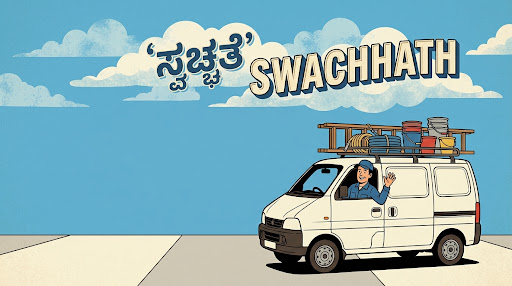
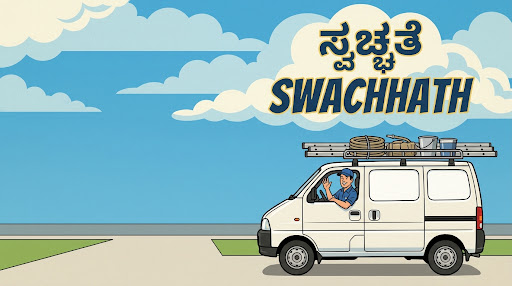
feat: replace desktop background with 4K high-res tuned Eeco van illustration

diff --git a/src/components/Hero.tsx b/src/components/Hero.tsx
@@ -1,6 +1,3 @@
-"use client";
-
-import { useState } from "react";
 import { Star, ShieldCheck, Leaf, Phone, Droplets, MapPin } from "lucide-react";
 
 export default function Hero() {
@@ -11,22 +8,8 @@ export default function Hero() {
   const whatsappLink = `https://wa.me/${whatsappNumber}?text=${whatsappMessage}`;
   const phoneCallLink = `tel:${whatsappNumber}`;
 
-  // Controller states for desktop tuning (Temporary)
-  const [bgSizePercent, setBgSizePercent] = useState(100); // Zoom level in %
-  const [bgPosX, setBgPosX] = useState(100); // Horizontal offset (100% is right side)
-  const [bgPosY, setBgPosY] = useState(100); // Vertical offset (100% is bottom side)
-  const [paddingY, setPaddingY] = useState(96); // Vertical padding of content in px
-  const [minHeight, setMinHeight] = useState(70); // Min height of section in vh
-
   return (
-    <section 
-      className="relative overflow-hidden flex items-center bg-[url('/images/hero-cartoon-mobile.png')] md:bg-[url('/images/hero-cartoon-desktop.png')] bg-no-repeat"
-      style={{
-        minHeight: `${minHeight}vh`,
-        backgroundSize: `${bgSizePercent}%`,
-        backgroundPosition: `${bgPosX}% ${bgPosY}%`,
-      }}
-    >
+    <section className="relative overflow-hidden min-h-[70vh] flex items-center bg-[url('/images/hero-cartoon-mobile.png')] md:bg-[url('/images/hero-cartoon-desktop.png')] bg-cover bg-bottom hero-tuned-bg bg-no-repeat">
       {/* Rich blue overlay (gradient from dark navy blue to transparent, showing the cartoon illustration) */}
       <div className="absolute inset-0 bg-gradient-to-r from-[#162659]/90 via-[#162659]/55 to-[#162659]/15 z-0" />
       
@@ -37,13 +20,7 @@ export default function Hero() {
       {/* Subtle grid pattern */}
       <div className="absolute inset-0 opacity-[0.03] z-0" style={{ backgroundImage: 'radial-gradient(circle, #fff 1px, transparent 1px)', backgroundSize: '30px 30px' }} />
 
-      <div 
-        className="relative max-w-6xl mx-auto px-6 sm:px-8 w-full z-10"
-        style={{
-          paddingTop: `${paddingY}px`,
-          paddingBottom: `${paddingY}px`,
-        }}
-      >
+      <div className="relative max-w-6xl mx-auto px-6 sm:px-8 w-full py-16 sm:py-20 z-10 hero-tuned-container">
         <div className="grid md:grid-cols-12 gap-10 items-center">
           
           {/* Text Content */}
@@ -88,7 +65,7 @@ export default function Hero() {
                 className="inline-flex items-center justify-center px-6 py-3.5 text-sm font-extrabold rounded-xl text-white bg-secondary hover:bg-secondary-hover shadow-lg shadow-secondary/25 hover:shadow-xl hover:shadow-secondary/30 transition-all duration-300 cursor-pointer"
               >
                 <svg className="w-5 h-5 mr-2 fill-current" viewBox="0 0 24 24" xmlns="http://www.w3.org/2000/svg">
-                  <path d="M.057 24l1.687-6.163c-1.041-1.804-1.588-3.849-1.587-5.946C.06 5.348 5.397.01 12.008.01c3.202.001 6.212 1.246 8.477 3.514 2.266 2.268 3.507 5.28 3.505 8.484-.004 6.657-5.34 11.997-11.953 11.997-2.005-.001-3.973-.502-5.724-1.455L0 24zm6.59-4.846c1.6.95 3.188 1.449 4.825 1.451 5.436 0 9.86-4.37 9.863-9.75.002-2.605-1.002-5.054-2.829-6.88-1.827-1.827-4.26-2.83-6.875-2.83-5.448 0-9.873 4.37-9.876 9.75-.001 1.833.466 3.626 1.353 5.197l-.995 3.637 3.735-.975zm11.367-7.384c-.3-.15-1.772-.875-2.046-.975-.276-.1-.476-.15-.676.15-.2.3-.775.975-.95 1.175-.175.2-.35.225-.65.075-.3-.15-1.267-.467-2.413-1.487-.893-.797-1.496-1.783-1.67-2.083-.175-.3-.018-.463.13-.61.134-.133.3-.35.45-.525.15-.175.2-.3.3-.5s.05-.375-.025-.525c-.075-.15-.676-1.625-.926-2.225-.244-.589-.493-.51-.676-.519-.174-.009-.375-.01-.575-.01-.2 0-.525.075-.8.375-.275.3-1.05 1.025-1.05 2.5s1.075 2.9 1.225 3.1c.15.2 2.11 3.224 5.112 4.521.714.308 1.272.492 1.707.63.717.228 1.368.196 1.883.118.574-.088 1.772-.724 2.022-1.424.25-.7.25-1.3 0-1.425-.075-.125-.275-.2-.575-.35z" />
+                  <path d="M.057 24l1.687-6.163c-1.041-1.804-1.588-3.849-1.587-5.946C.06 5.348 5.397.01 12.008.01c3.202.001 6.212 1.246 8.477 3.514 2.266 2.268 3.507 5.28 3.505 8.484-.004 6.657-5.34 11.997-11.953 11.997-2.005-.001-3.973-.502-5.724-1.455L0 24zm6.59-4.846c1.6.95 3.188 1.449 4.825 1.451 5.436 0 9.86-4.37 9.863-9.75.002-2.605-1.002-5.054-2.829-6.88-1.827-1.827-4.26-2.83-6.875-2.83-5.448 0-9.873 4.37-9.876 9.75-.001 1.833.466 3.626 1.353 5.197l-.995 3.637 3.735-.975zm11.367-7.384c-.3-.15-1.772-.875-2.046-.975-.276-.1-.476-.15-.676.15-.2.3-.775.975-.95 1.175-.175.2-.35.225-.65.075-.3-.15-1.267-.467-2.413-1.487-.893-.797-1.783-1.67-2.083-.175-.3-.018-.463.13-.61.134-.133.3-.35.45-.525.15-.175.2-.3.3-.5s.05-.375-.025-.525c-.075-.15-.676-1.625-.926-2.225-.244-.589-.493-.51-.676-.519-.174-.009-.375-.01-.575-.01-.2 0-.525.075-.8.375-.275.3-1.05 1.025-1.05 2.5s1.075 2.9 1.225 3.1c.15.2 2.11 3.224 5.112 4.521.714.308 1.272.492 1.707.63.717.228 1.368.196 1.883.118.574-.088 1.772-.724 2.022-1.424.25-.7.25-1.3 0-1.425-.075-.125-.275-.2-.575-.35z" />
                 </svg>
                 Chat with Us
               </a>
@@ -100,93 +77,6 @@ export default function Hero() {
                 Call Us
               </a>
             </div>
-          </div>
-        </div>
-      </div>
-
-      {/* Background Controller UI (hidden on mobile, visible on desktop) */}
-      <div className="hidden md:block fixed bottom-6 left-6 z-50 bg-slate-900/95 text-white p-5 rounded-2xl border border-slate-700 shadow-2xl w-80 backdrop-blur-md font-sans">
-        <h4 className="text-sm font-bold border-b border-slate-700 pb-2 mb-3 text-secondary flex justify-between">
-          <span>BG Position & Size Tuner</span>
-          <span className="text-[10px] text-white/50">Temp Controller</span>
-        </h4>
-        
-        <div className="space-y-3.5 text-xs">
-          {/* Min Height Slider */}
-          <div className="space-y-1">
-            <div className="flex justify-between text-white/70">
-              <span>Section Min Height:</span>
-              <span className="font-mono text-secondary">{minHeight}vh</span>
-            </div>
-            <input 
-              type="range" min="40" max="100" value={minHeight} 
-              onChange={(e) => setMinHeight(Number(e.target.value))}
-              className="w-full h-1 bg-slate-700 rounded-lg appearance-none cursor-pointer accent-secondary"
-            />
-          </div>
-
-          {/* Padding Y Slider */}
-          <div className="space-y-1">
-            <div className="flex justify-between text-white/70">
-              <span>Vertical Padding:</span>
-              <span className="font-mono text-secondary">{paddingY}px</span>
-            </div>
-            <input 
-              type="range" min="30" max="180" value={paddingY} 
-              onChange={(e) => setPaddingY(Number(e.target.value))}
-              className="w-full h-1 bg-slate-700 rounded-lg appearance-none cursor-pointer accent-secondary"
-            />
-          </div>
-
-          {/* Zoom / BG Size Slider */}
-          <div className="space-y-1">
-            <div className="flex justify-between text-white/70">
-              <span>Zoom Background (Size %):</span>
-              <span className="font-mono text-secondary">{bgSizePercent}%</span>
-            </div>
-            <input 
-              type="range" min="30" max="300" value={bgSizePercent} 
-              onChange={(e) => setBgSizePercent(Number(e.target.value))}
-              className="w-full h-1 bg-slate-700 rounded-lg appearance-none cursor-pointer accent-secondary"
-            />
-          </div>
-
-          {/* BG Position X Slider */}
-          <div className="space-y-1">
-            <div className="flex justify-between text-white/70">
-              <span>BG Position X (Horizontal):</span>
-              <span className="font-mono text-secondary">{bgPosX}%</span>
-            </div>
-            <input 
-              type="range" min="0" max="100" value={bgPosX} 
-              onChange={(e) => setBgPosX(Number(e.target.value))}
-              className="w-full h-1 bg-slate-700 rounded-lg appearance-none cursor-pointer accent-secondary"
-            />
-          </div>
-
-          {/* BG Position Y Slider */}
-          <div className="space-y-1">
-            <div className="flex justify-between text-white/70">
-              <span>BG Position Y (Vertical):</span>
-              <span className="font-mono text-secondary">{bgPosY}%</span>
-            </div>
-            <input 
-              type="range" min="0" max="100" value={bgPosY} 
-              onChange={(e) => setBgPosY(Number(e.target.value))}
-              className="w-full h-1 bg-slate-700 rounded-lg appearance-none cursor-pointer accent-secondary"
-            />
-          </div>
-
-          {/* Final Values Copy Block */}
-          <div className="bg-slate-950 p-2.5 rounded-xl border border-slate-800 space-y-1 text-[10px]">
-            <span className="text-secondary font-bold uppercase block tracking-wider">Tuned Settings Code:</span>
-            <code className="block font-mono text-[9px] text-white/80 select-all whitespace-pre bg-black/30 p-1.5 rounded border border-white/5 overflow-x-auto">
-{`backgroundSize: "${bgSizePercent}%"
-bgPosition: "${bgPosX}% ${bgPosY}%"
-minHeight: "${minHeight}vh"
-paddingY: "${paddingY}px"`}
-            </code>
-            <span className="text-[9px] text-white/40 block mt-1 text-center">Drag sliders to fit background, then copy this code and send it in chat!</span>
           </div>
         </div>
       </div>

diff --git a/src/app/globals.css b/src/app/globals.css
@@ -109,3 +109,16 @@ h1, h2, h3, h4, h5, h6 {
   transform: translateY(-4px);
   box-shadow: 0 12px 40px -12px rgba(22, 38, 89, 0.15);
 }
+
+/* Hero responsive overrides for tuned background image fit */
+@media (min-width: 768px) {
+  .hero-tuned-bg {
+    min-height: 92vh !important;
+    background-size: 95% !important;
+    background-position: 100% 94% !important;
+  }
+  .hero-tuned-container {
+    padding-top: 150px !important;
+    padding-bottom: 150px !important;
+  }
+}